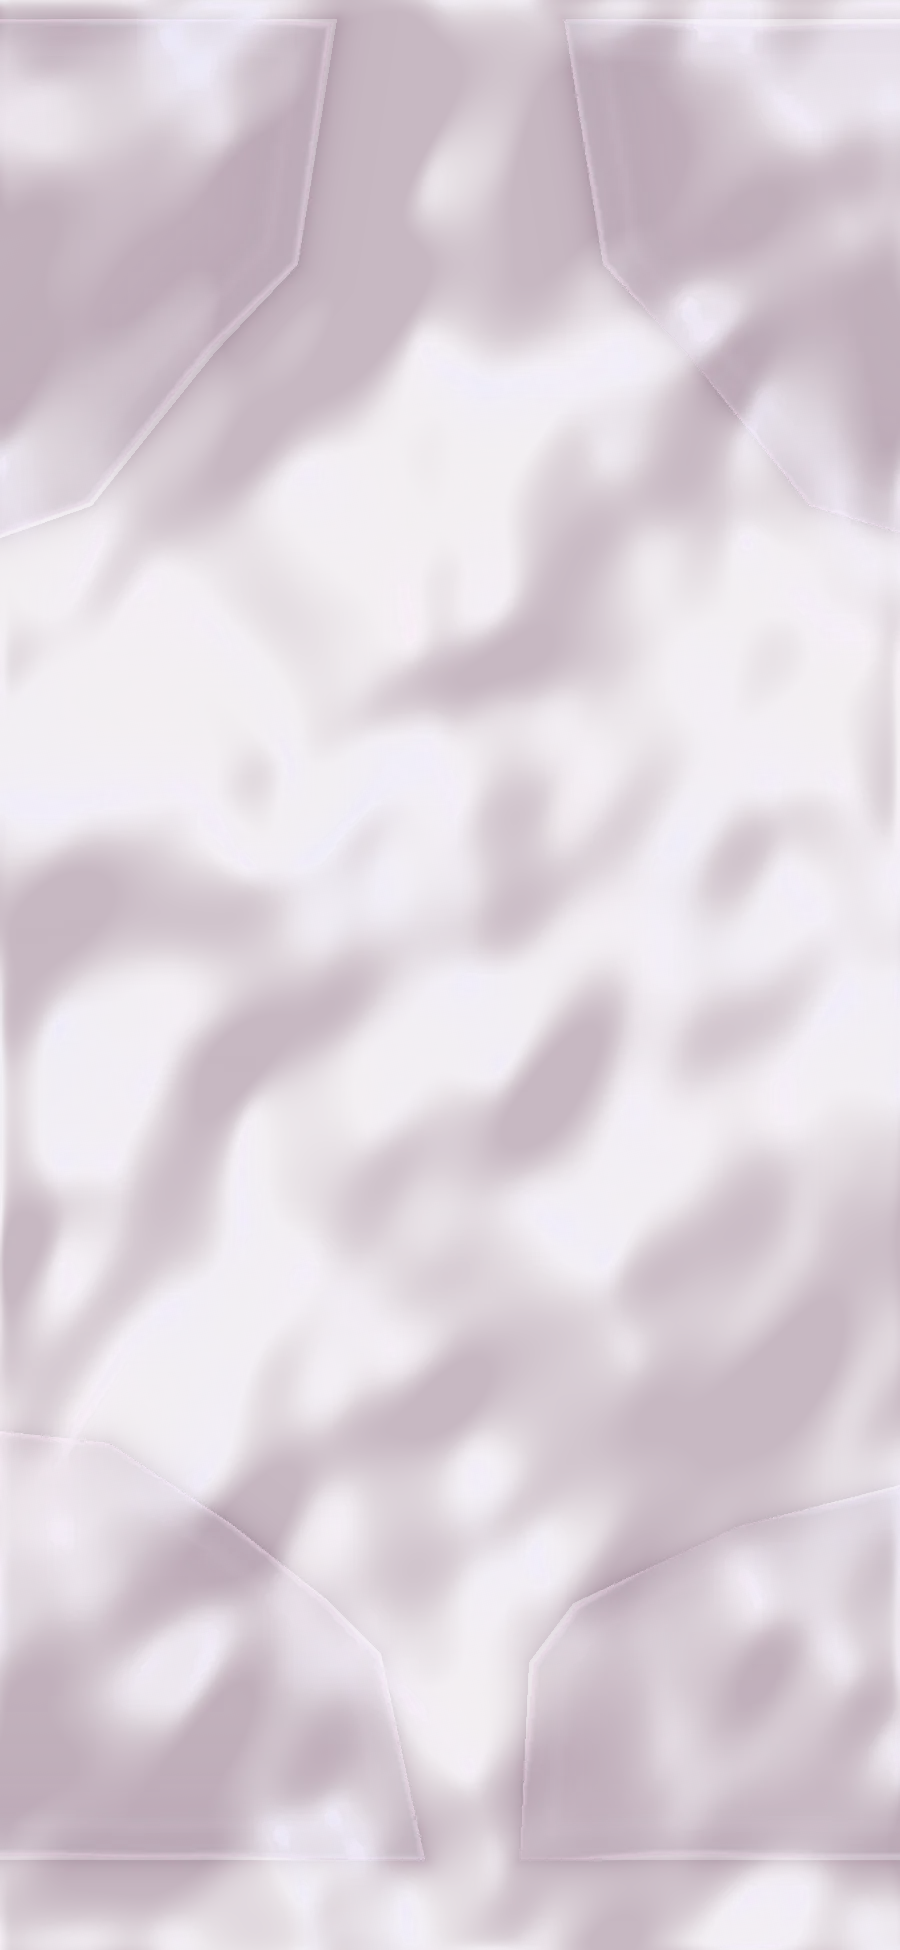
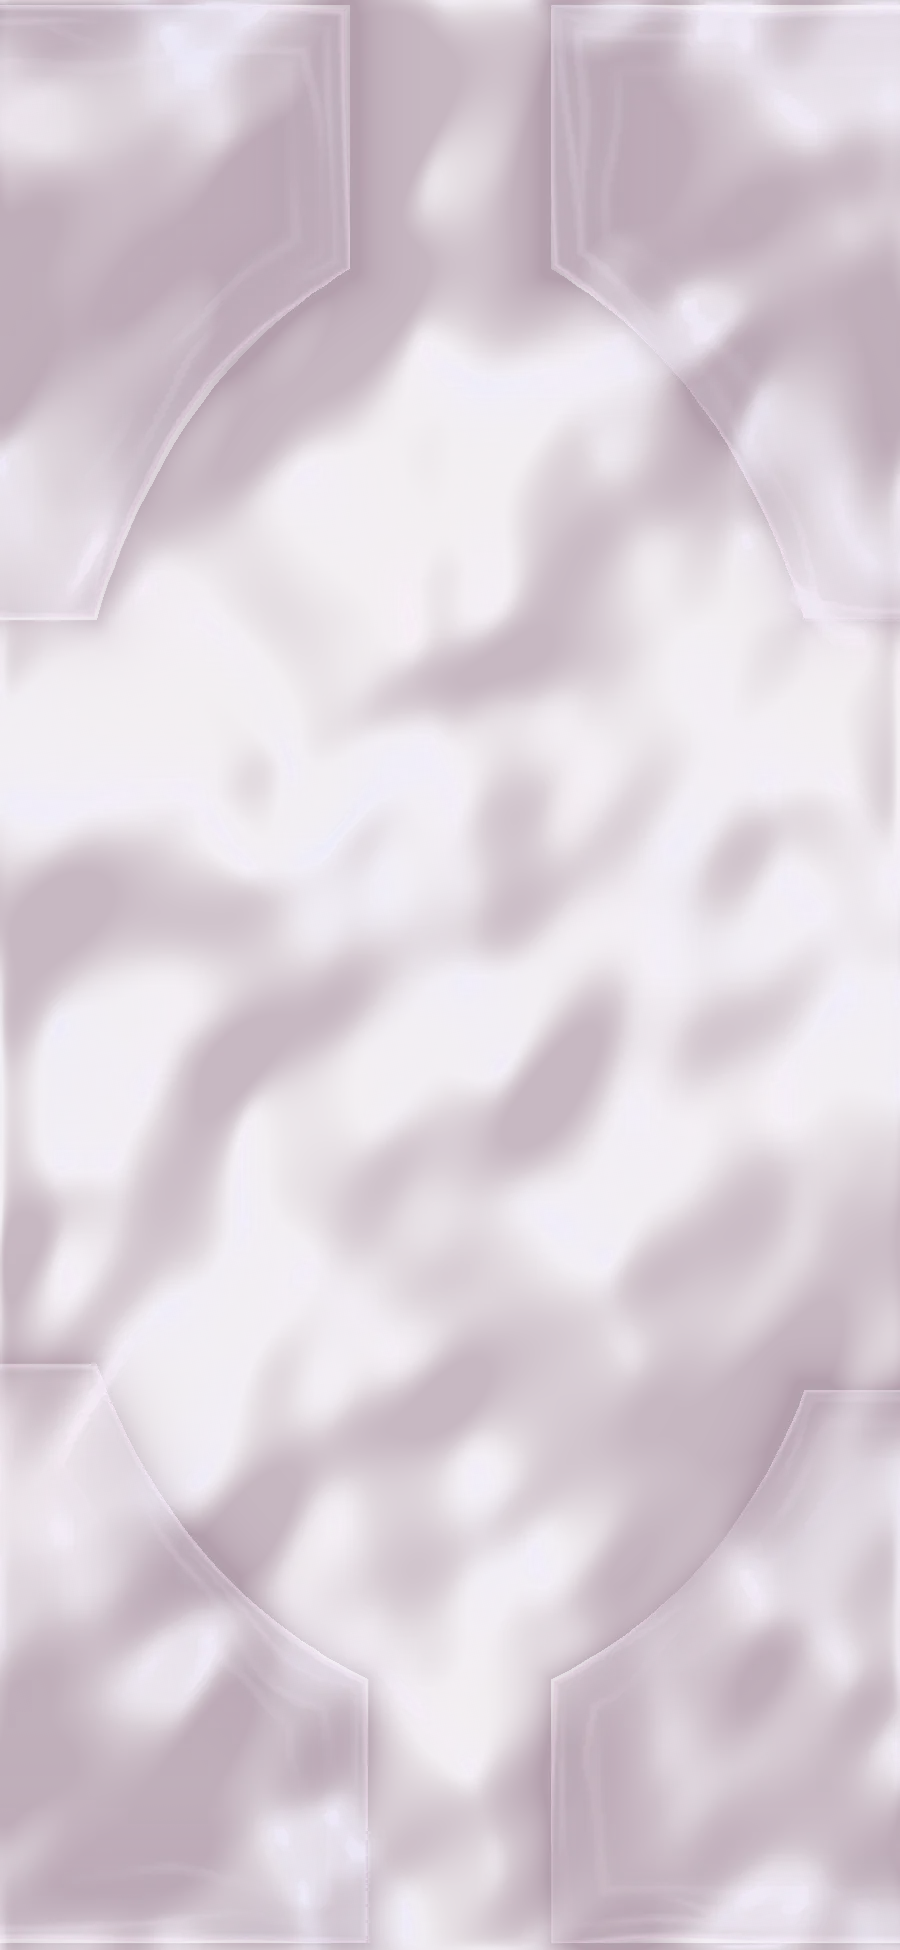
Website: fabric corners fold over along curves that sweep to the sides, with gathered creases and deeper shadow

diff --git a/Wedding Website/tools/make_assets.py b/Wedding Website/tools/make_assets.py
@@ -441,11 +441,16 @@ def organza_rgba():
     def _to_sheet(px, py):                       # reference-frame px -> sheet px (frame is at ~0.9 zoom; sheet is 1.28x the card)
         uf = 0.5 + (px / 780 - 0.5) * 0.97; vf = 0.47 + (py / 1580 - 0.47) * 0.97
         return ((0.109 + 0.782 * uf) * W, (0.134 + 0.732 * vf) * H)
-    FOLDS = [   # (polygon in reference px 780x1580, how dense the doubled cloth is). The top corners fold over as "/" and "\\"
-        ([(-150, -300), (260, -300), (215, -20), (120, 80), (40, 180), (-20, 255), (-150, 300)], 0.9),        # top-left corner, edge runs like "/"
-        ([(520, -300), (950, -300), (950, 300), (800, 255), (740, 180), (660, 80), (565, -20)], 0.9),          # top-right corner, edge runs like "\\"
-        ([(-150, 1310), (0, 1326), (140, 1418), (250, 1505), (310, 1565), (360, 1800), (-150, 1800)], 0.75),   # bottom-left layer
-        ([(530, 1508), (720, 1420), (950, 1362), (950, 1800), (470, 1800), (480, 1575)], 0.7),               # bottom-right layer
+    def _corner(cx, cy, rx, ry, sx, sy, n=28):       # a corner folded over along a curve that sweeps from one edge round to the
+        a0 = (cx + sx * rx, cy); a1 = (cx, cy + sy * ry)   # other, sagging in toward the corner like a draped swag (not a bulge)
+        c = (cx + sx * rx * 0.30, cy + sy * ry * 0.30)
+        arc = [((1 - u) ** 2 * a0[0] + 2 * u * (1 - u) * c[0] + u * u * a1[0], (1 - u) ** 2 * a0[1] + 2 * u * (1 - u) * c[1] + u * u * a1[1]) for u in np.linspace(0, 1, n)]
+        return [(cx - sx * 200, cy - sy * 300), (cx + sx * rx, cy - sy * 300)] + arc + [(cx - sx * 200, cy + sy * ry)]
+    FOLDS = [   # (polygon in reference px 780x1580, how dense the doubled cloth is)
+        (_corner(-15, -15, 290, 400, 1, 1), 1.0),          # top-left: curve from the top edge round to the left side
+        (_corner(795, -15, 290, 400, -1, 1), 1.0),         # top-right
+        (_corner(-15, 1595, 310, 360, 1, -1), 0.9),        # bottom-left
+        (_corner(795, 1595, 290, 330, -1, -1), 0.85),      # bottom-right
     ]
     fold_layer = np.zeros((H, W), np.float32); fold_edge = np.zeros((H, W), np.float32); fold_shadow = np.zeros((H, W), np.float32)
     for k, (poly, dens) in enumerate(FOLDS):
@@ -457,8 +462,9 @@ def organza_rgba():
         inside = smooth01(d_in / 3.0) * m
         fold_layer = np.maximum(fold_layer, dens * inside * (0.30 + (1 - 0.30) * np.exp(-d_in / 80.0)))   # thin: the doubled cloth shows mostly near its edge
         fold_edge = np.maximum(fold_edge, np.exp(-((d_in - 3.0) / 3.2) ** 2) * m)                      # the rolled hem catches the light
-        fold_edge = np.maximum(fold_edge, 0.25 * np.exp(-((d_in - 34) / 7.0) ** 2) * m * (0.5 + 0.5 * _onoise(H, W, 160, 2, 80 + k)))  # one soft crease just inside
-        fold_shadow = np.maximum(fold_shadow, np.exp(-d_out / 12.0) * (1 - m))                         # and it shades the sheet beneath
+        for q, (dc, wc, sc) in enumerate(((16, 4.0, 0.60), (36, 5.0, 0.50), (62, 6.0, 0.40))):
+            fold_edge = np.maximum(fold_edge, sc * np.exp(-((d_in - dc - 44 * (_onoise(H, W, 170, 2, 90 + 7 * k + q) - 0.5)) / wc) ** 2) * m * np.clip(2.2 * _onoise(H, W, 130, 2, 80 + 5 * k + q) - 0.6, 0, 1))  # one soft crease just inside
+        fold_shadow = np.maximum(fold_shadow, np.exp(-d_out / 20.0) * (1 - m))                         # and it shades the sheet beneath
     nrm = np.dstack([-gx, -gy, np.ones_like(h)]); nrm /= np.linalg.norm(nrm, axis=2, keepdims=True)
     l = np.array([-0.34, -0.60, 0.72]); l /= np.linalg.norm(l); hv = l + [0, 0, 1]; hv /= np.linalg.norm(hv)
     nh = np.clip((nrm * hv).sum(2), 0, 1); diff = np.clip((nrm * l).sum(2), 0, 1)
@@ -472,7 +478,7 @@ def organza_rgba():
     c_hl = np.array([250, 240, 248], np.float32) * (1 - tint) + np.array([236, 236, 255], np.float32) * tint
     c_veil = np.array([150, 122, 140], np.float32)                 # the film itself: a thin rosy-mauve veil
     shade = np.clip(1.0 - diff * 1.2, 0, 1)
-    a_veil = np.clip(0.12 + 0.42 * shade + 0.28 * fold_layer + 0.20 * fold_shadow, 0, 0.72)
+    a_veil = np.clip(0.12 + 0.42 * shade + 0.30 * fold_layer + 0.30 * fold_shadow, 0, 0.72)
     a_hl = np.clip(0.86 * hl, 0, 0.86)
     a = a_veil + a_hl * (1 - a_veil)
     rgb = (c_veil * (a_veil * (1 - a_hl))[..., None] + c_hl * a_hl[..., None]) / np.maximum(a[..., None], 1e-4)
